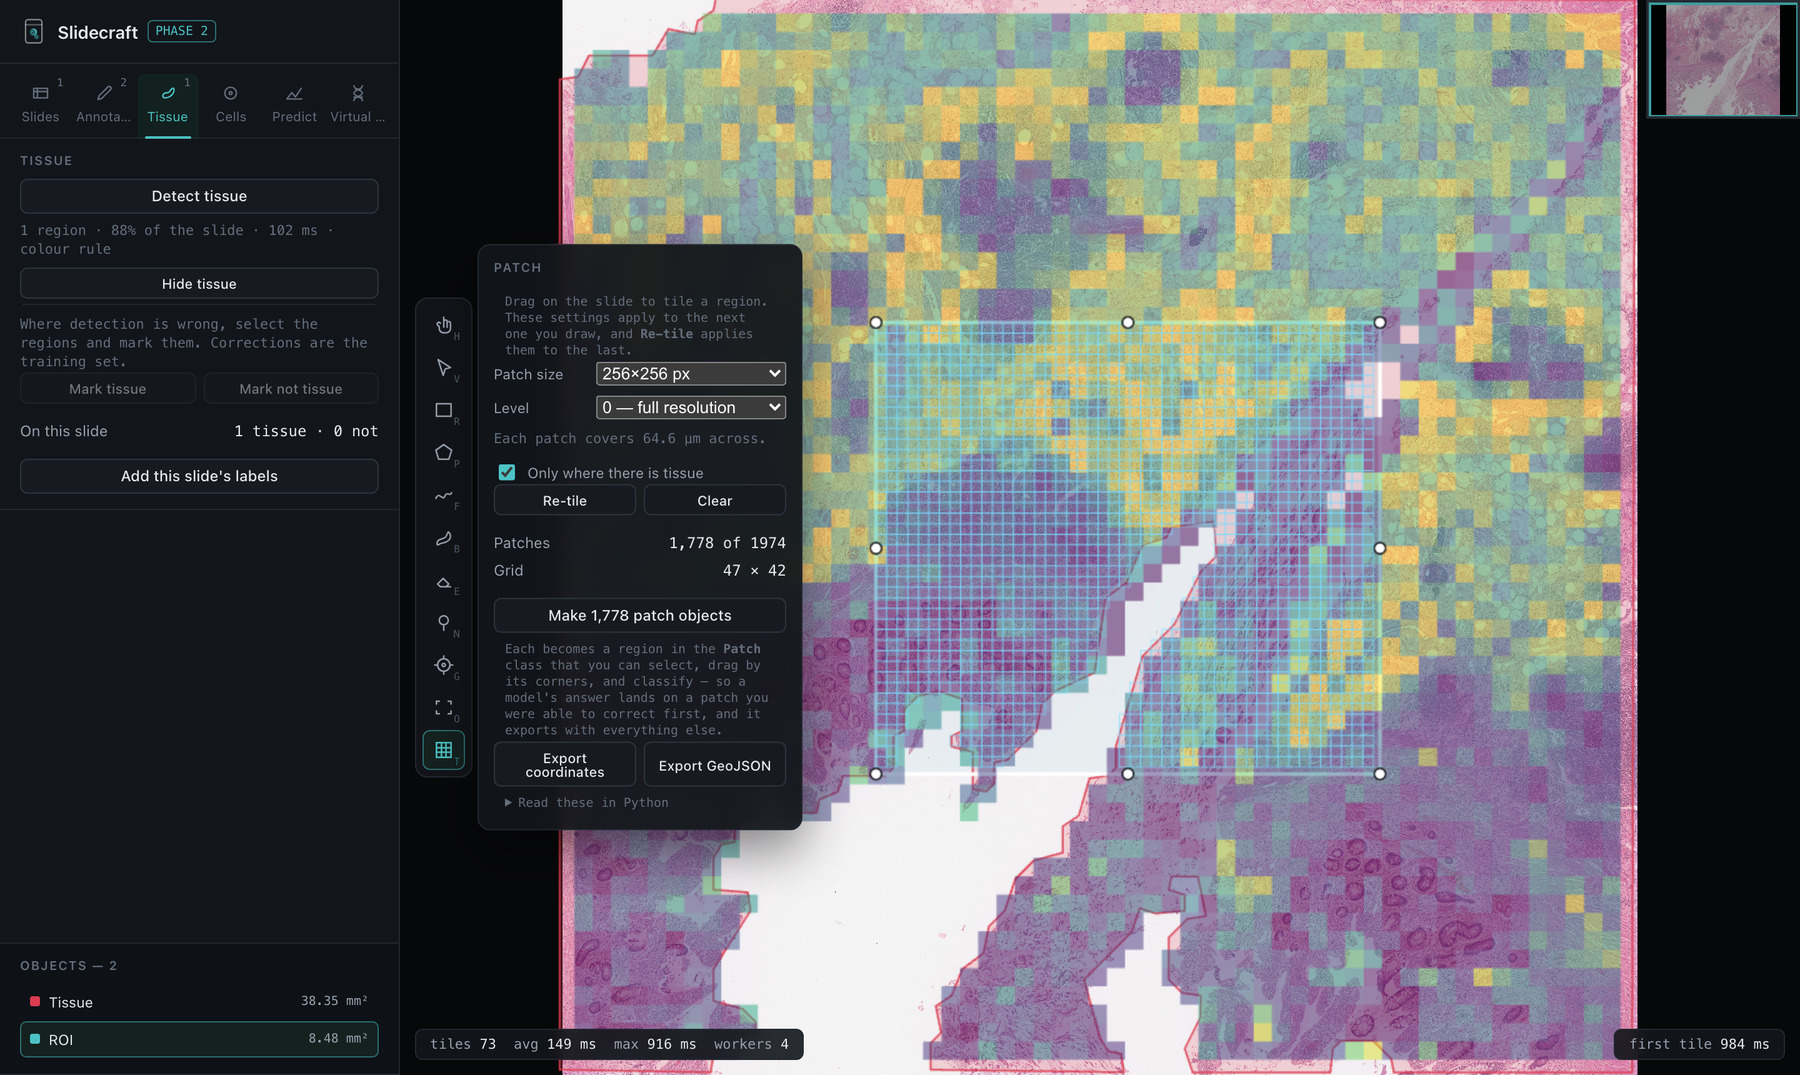
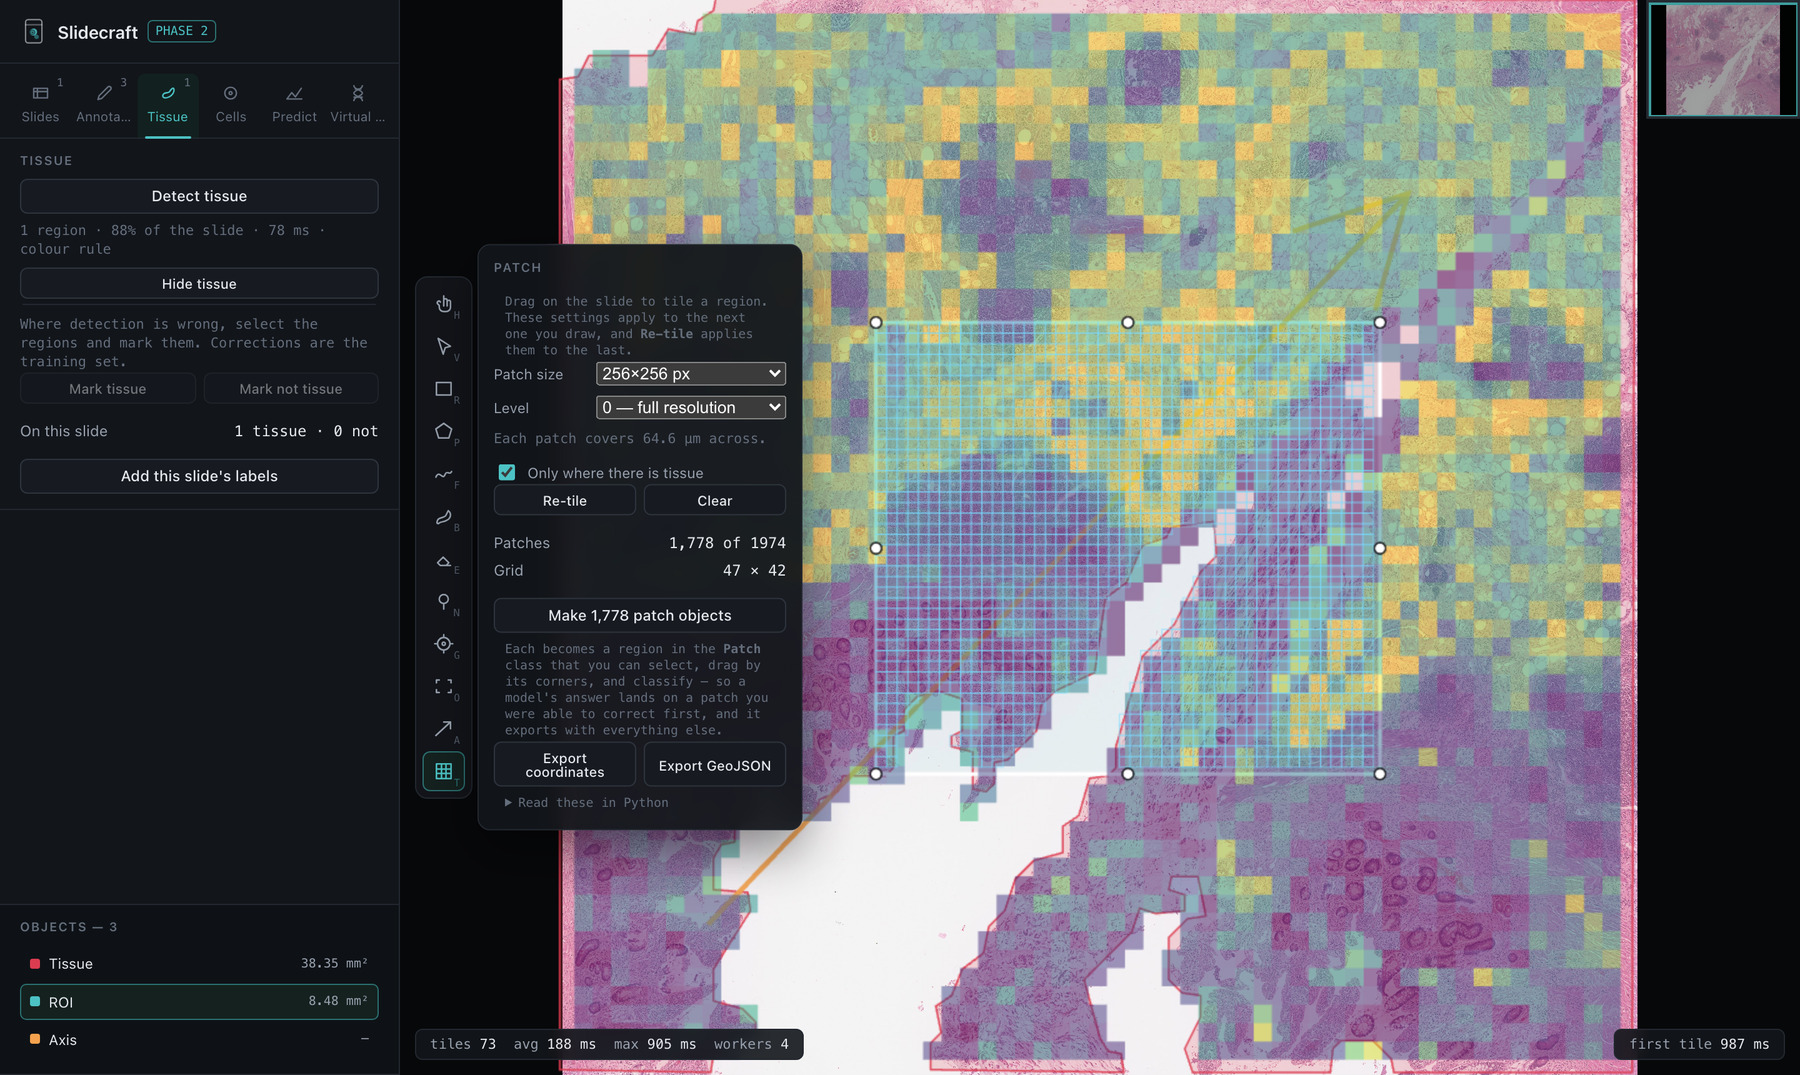
Capture the two analyses, and stop hand-converting the results
The capture script covered the tools and none of the questions you ask
with them, so the site showed how to draw a region and never what drawing
one tells you. It now captures both analyses -- the cell types enriched in
a region, and what changes along a drawn axis.

An analysis needs its answer on screen before the shutter, which the first
attempt got wrong twice. The panel was scrolled wherever the previous step
left it, so the capture showed the buttons and none of the result; there
is now a reveal step that scrolls the answer into view. And the patch grid
from an earlier shot was still drawn over the slide, cross-hatching both
new pictures -- so the analyses moved ahead of tissue detection and
patching, which is also the order someone would actually work in.

The script also encodes what the site serves rather than leaving me to do
it by hand: 2x PNG down to 1800px and Q92 JPEG, about 600 KB against 5 MB,
with the UI text still sharp. It leans on vips, which the tissue
verification already needs, and keeps the PNG with a warning when it is
missing rather than failing.

Both pictures are real results on a real resection: 414 patches inside
against 2,522 outside giving Epithelium 0.87 down to Crypt 0.83, and 281
patches along 6.18 mm with every epithelial module falling toward the
wall.

diff --git a/docs/index.html b/docs/index.html
@@ -202,6 +202,7 @@
     <h1>Slidecraft</h1>
     <nav>
       <a href="#how">How it works</a>
+      <a href="#asking">Ask it</a>
       <a href="#tutorials">Tutorials</a>
       <a href="https://github.com/GlastonburyC/slidecraft">GitHub</a>
     </nav>
@@ -365,6 +366,53 @@
         inverse of the goblet map: dark through the mucosa, bright in the wall.
         Neither picture is a measurement. Predicted expression is a hypothesis
         from morphology, to check against an assay.
+      </figcaption>
+    </figure>
+  </div>
+</section>
+
+<section id="asking">
+  <div class="wrap">
+    <h3>Ask the map a question</h3>
+    <p>
+      A map you can only look at is a picture. Two questions turn it into a
+      result, and both are asked by drawing rather than by typing.
+    </p>
+
+    <h4 style="margin-top:26px">What is in this region?</h4>
+    <p>
+      Draw round an area and rank the cell types over-represented in it against
+      the rest of the slide — or the genes, if that is what you need.
+      &ldquo;CXCL13 is enriched here&rdquo; is only useful to someone who already
+      knows what CXCL13 means; &ldquo;this is a lymphoid aggregate&rdquo; is the
+      finding itself.
+    </p>
+    <figure class="shot">
+      <img src="shots/enrichment.jpg"
+           alt="A region drawn over colonic mucosa, with the cell types enriched in it ranked by AUC">
+      <figcaption>
+        414 patches inside against 2,522 outside. Epithelium 0.87, Goblet 0.85,
+        Colonocyte 0.84, Crypt 0.83 — mucosa described as mucosa, by a model
+        that was only ever shown the H&amp;E.
+      </figcaption>
+    </figure>
+
+    <h4 style="margin-top:32px">What changes along an axis?</h4>
+    <p>
+      Enrichment suits a thing with a boundary. Much of mucosa has none —
+      expression varies <em>along</em> an axis, and splitting that into inside
+      and outside throws away the ordering that was the signal. So press
+      <kbd>A</kbd>, drag an arrow, and every gene or module is rank-correlated
+      against position along it. Positive rises toward the head; reverse the
+      arrow and every sign flips.
+    </p>
+    <figure class="shot">
+      <img src="shots/axis.jpg"
+           alt="An arrow drawn from mucosa to muscularis, with the cell types that change along it">
+      <figcaption>
+        281 patches along 6.18 mm, mucosa to wall. Goblet &minus;0.86,
+        Colonocyte &minus;0.84, Crypt &minus;0.84 and Epithelium &minus;0.83 all
+        falling, with myeloid and vascular rising the other way.
       </figcaption>
     </figure>
   </div>

diff --git a/README.md b/README.md
@@ -160,6 +160,18 @@ holds none of it.
 > cytokines — can come back flat. Check the coverage counts before trusting a
 > module.
 
+## Ask the map a question
+
+Draw round an area and rank the cell types over-represented in it, not just the
+genes. "CXCL13 is enriched here" is only useful to someone who already knows
+what CXCL13 means; "this is a lymphoid aggregate" is the finding itself.
+
+<img src="docs/shots/enrichment.jpg" alt="A region drawn over colonic mucosa, with the cell types enriched in it ranked by AUC">
+
+414 patches inside against 2,522 outside: Epithelium 0.87, Goblet 0.85,
+Colonocyte 0.84, Crypt 0.83 — and Neutrophil depleted at 0.31. Mucosa described
+as mucosa, from the H&E alone.
+
 ## Along an axis
 
 Enrichment asks whether a region differs from the rest, which suits a thing
